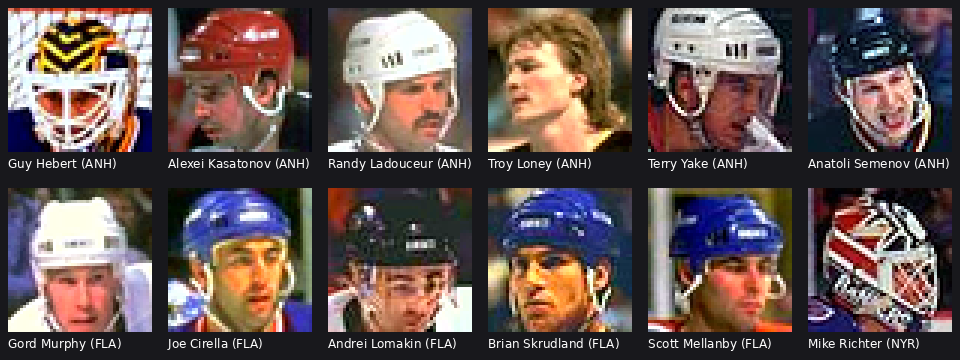
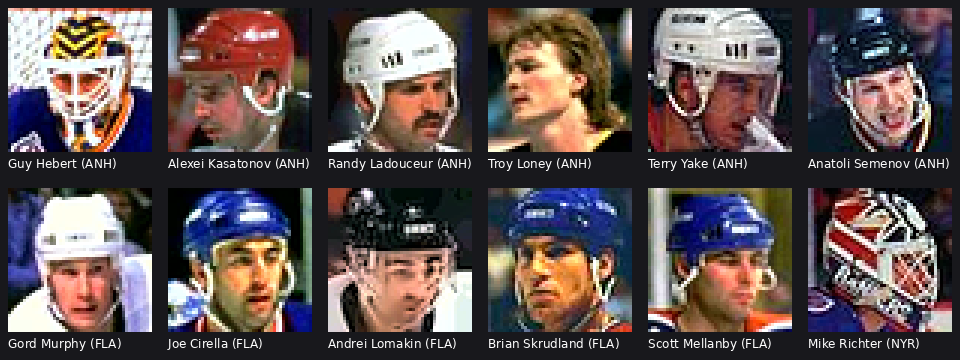
NHL94-colored-faces: stock-picture faces cropped and lit like 95 PC
Abdul's notes: Hebert, Murphy, Lomakin, Skrudland and Mellanby now show the
95 PC portrait's full height (the card photo lined up with it); Ladouceur,
Murphy, Cirella and Lomakin take the portrait's light too; Richter moved up.

Claude-Session: https://claude.ai/code/session_01KJTDwzPEt7XZREGbLCNCaB

diff --git a/NHL94-colored-faces/README.md b/NHL94-colored-faces/README.md
@@ -175,6 +175,11 @@ of each player, since there is no grey picture to colour. They are `Player_Team_
 - **The card's back, colours matched to the player's NHL 95 PC portrait** (the same photo there): Guy
   Hebert, Randy Ladouceur, Troy Loney, Gord Murphy, Joe Cirella, Scott Mellanby.
 - **The card's front, colours matched to his NHL 95 PC portrait**: Andrei Lomakin, Brian Skrudland.
+
+For these eight the card's photo was lined up with the 95 PC portrait. Hebert, Murphy, Lomakin, Skrudland
+and Mellanby show the portrait's full height, top to bottom. Ladouceur, Murphy, Cirella and Lomakin have
+the portrait's light as well as its colours (the cards are washed out next to it), and Lomakin's front,
+a small picture, was cleaned of its noise first.
 - **The card's front, contrast raised**: Terry Yake, Anatoli Semenov, Mike Richter (his mask).
 - **The card's back, contrast raised**: Alexei Kasatonov.
 
